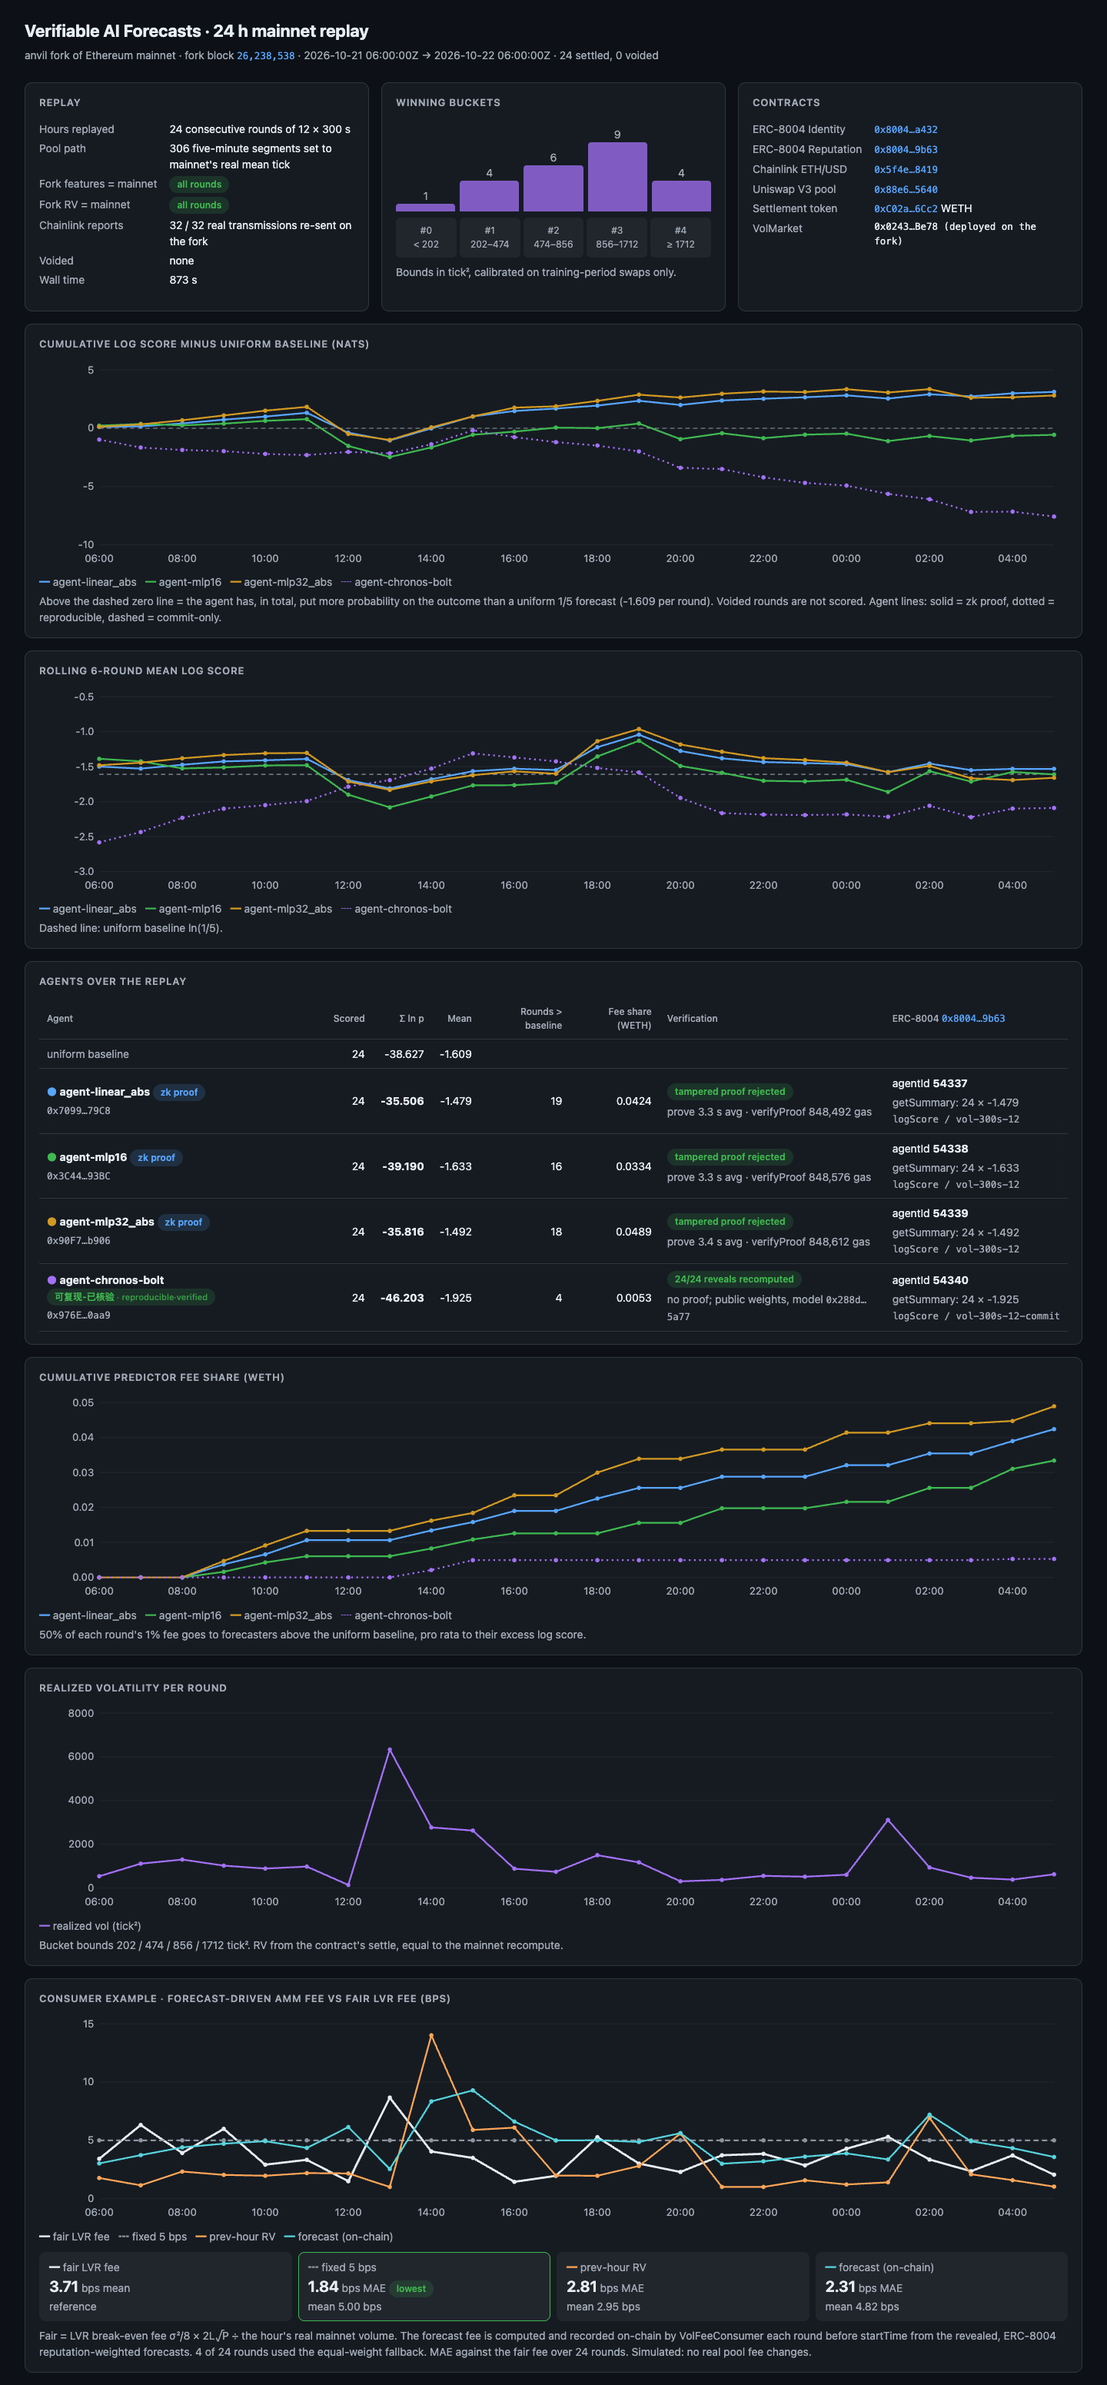
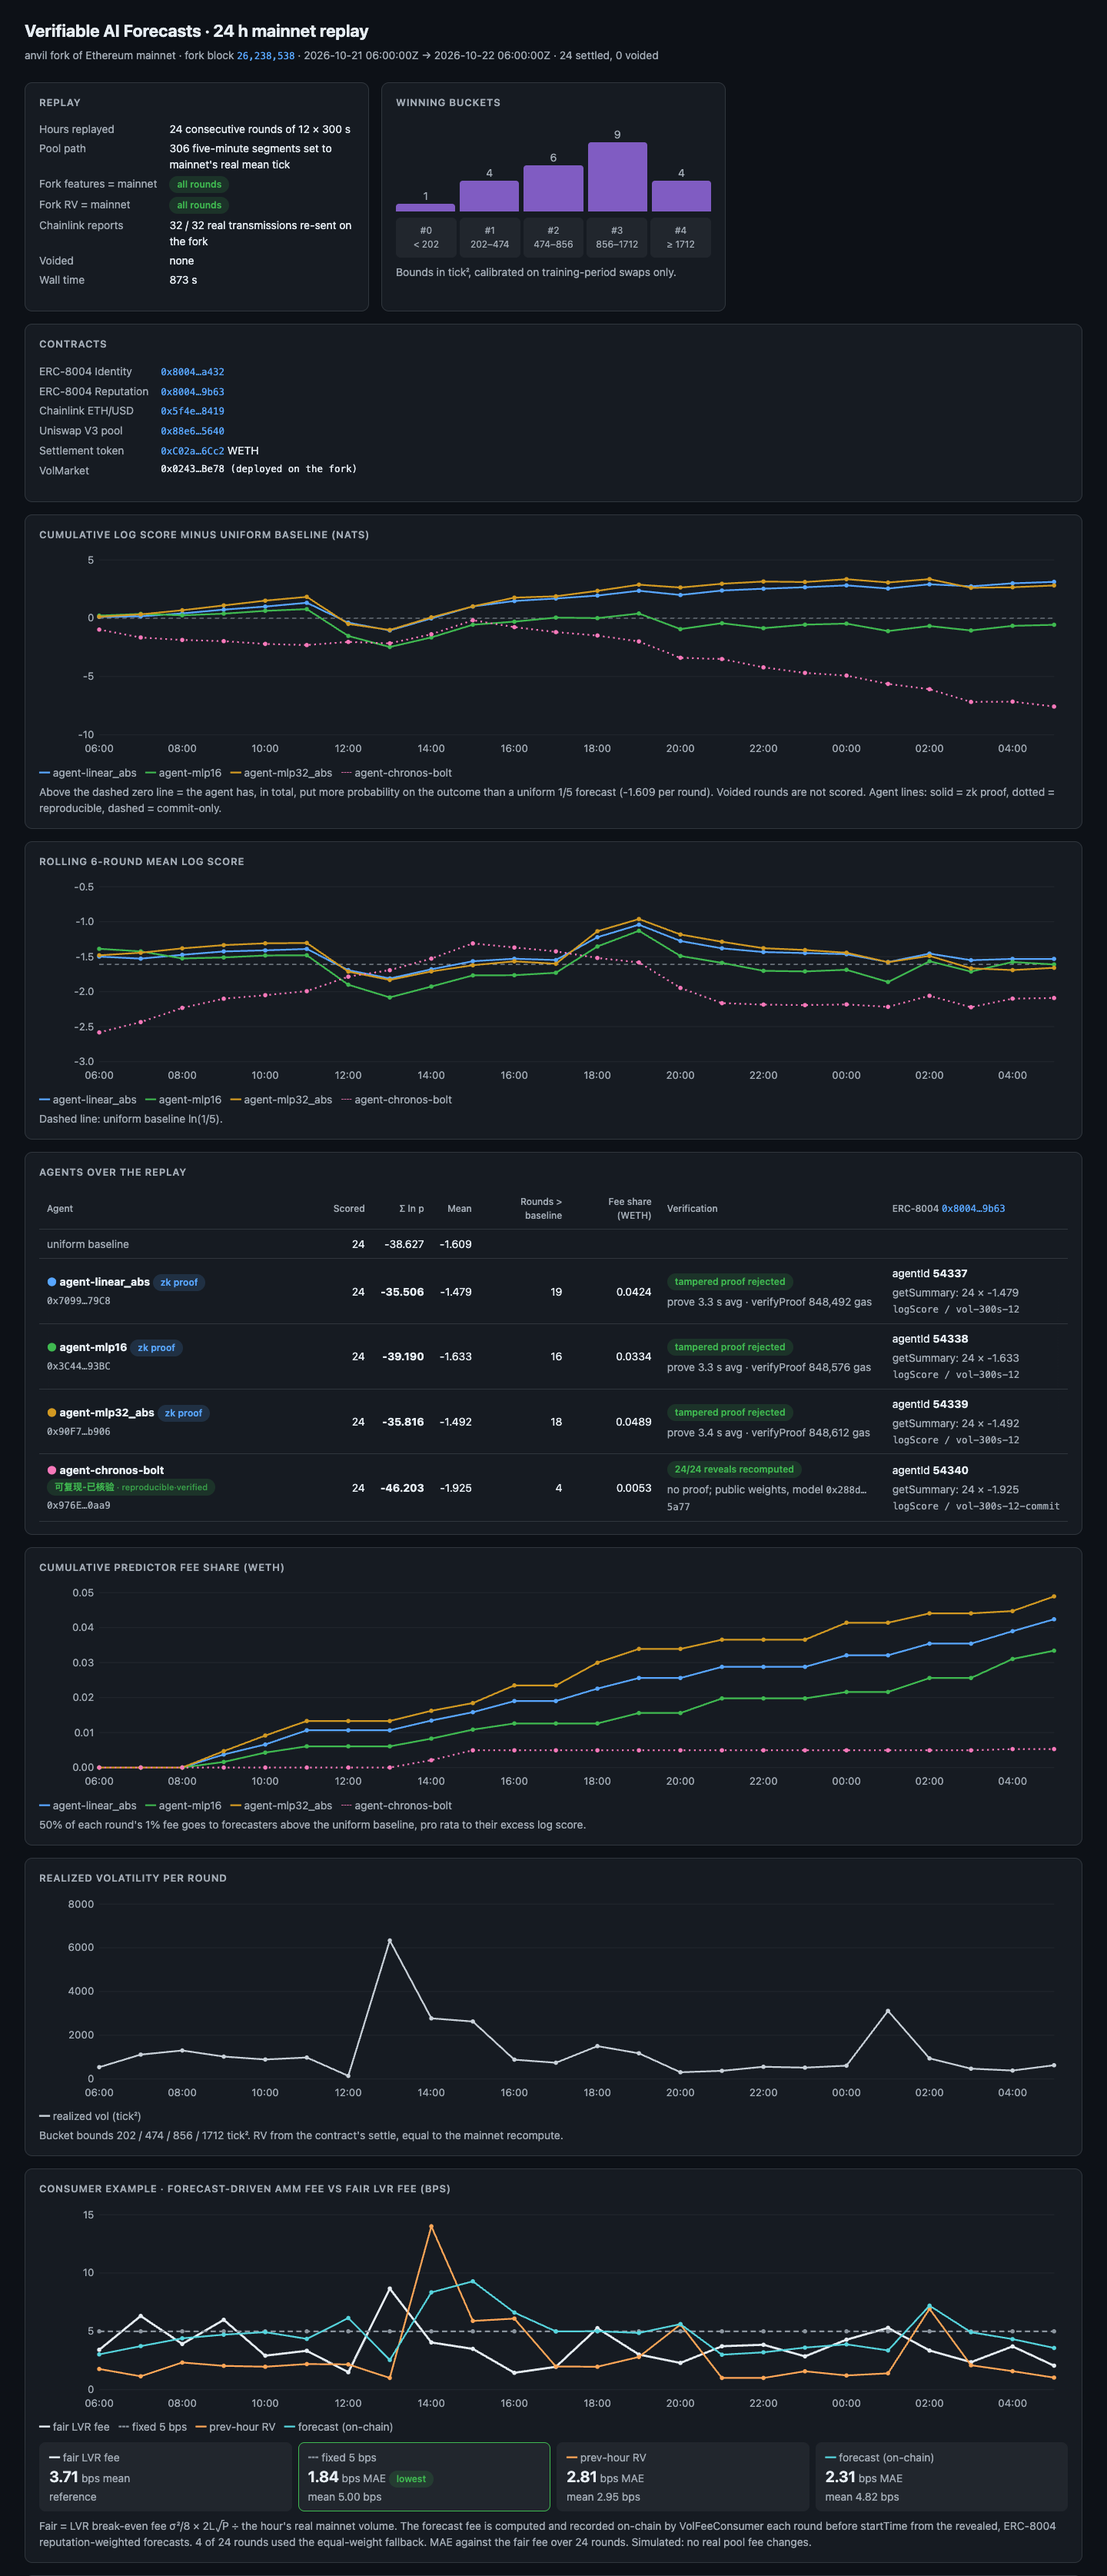
chore: r10 看板观感：配色、网格、图例与单轮获胜桶
Goal: dashboard/index.html：PALETTE 里与 --win 相同的 #a371f7 换成与其余调色板、费率卡系列色和 --win 都可区分、在暗底上可读的颜色，实现波动率线（:370）同样换掉 #a371f7，--win 保持 #a371f7；1280 宽下回放与单轮视图的卡片网格每行铺满（回放的 Contracts 卡、单轮的 Parimutuel bets 与 Contracts 卡设为 wide 或调整顺序）；图例每项（字形加系列名）包一层 white-space: nowrap，375 宽下系列名整体换行；单轮视图每个 .probs 小柱组带 role="img" 与写出五个桶概率百分比并点名结果桶（outcome）的 aria-label，表头用 outcome 一词说明、不用颜色词；布局体系与卡片风格照旧，375 与 1280 宽无横向溢出；更新 docs/img/dashboard.png
Accept: bash tests/acceptance/next_dashboard_polish.sh :: red -> green
Cumulative-Accept: 1 stage(s) green

Roadmap-Stage: R10
Macro-ID: macro-1792757991-3290

diff --git a/dashboard/index.html b/dashboard/index.html
@@ -20,6 +20,8 @@
   .card { background: var(--panel); border: 1px solid var(--line); border-radius: 10px; padding: 16px 18px;
           min-width: 0; overflow-x: auto; }
   .card.wide { grid-column: 1 / -1; }
+  /* 1116px to 1471px is where the 340px main grid has exactly three columns. */
+  @media (min-width: 1116px) and (max-width: 1471px) { .card.span2 { grid-column: span 2; } }
   .card h2 { margin: 0 0 12px; font-size: 13px; text-transform: uppercase; letter-spacing: .06em;
              color: var(--muted); font-weight: 600; }
   .big { font-size: 30px; font-weight: 650; }
@@ -96,7 +98,8 @@ const eth = (wei) => (Number(BigInt(wei) / 10n ** 12n) / 1e6).toFixed(4);
 const SCAN = "https://etherscan.io";
 const blockLink = (n) => `<a class="mono" href="${SCAN}/block/${n}" target="_blank" rel="noopener">${n.toLocaleString()}</a>`;
 const txLink = (h, text) => `<a class="mono" href="${SCAN}/tx/${h}" target="_blank" rel="noopener">${text ?? short(h)}</a>`;
-const PALETTE = ["#58a6ff", "#3fb950", "#d29922", "#a371f7", "#f778ba", "#79c0ff"];
+// Agent colours never reuse --win or the fee-card series colours.
+const PALETTE = ["#58a6ff", "#3fb950", "#d29922", "#f778ba", "#39c5bb", "#79c0ff"];
 const attr = (s) => String(s).replace(/&/g, "&amp;").replace(/"/g, "&quot;").replace(/</g, "&lt;");
 // The hint is shown only up to 1000 px, where a card's content box is under 900 px, so these tables always overflow.
 const scrollTable = (inner, minWidth = 0) => `<div class="table-scroll"><table${minWidth ? ` style="min-width:${minWidth}px"` : ""}>${inner}</table></div>` +
@@ -183,6 +186,7 @@ function render({ data: d, src }) {
     const max = Math.max(...a.probs);
     const bars = a.probs.map((p, i) => `<div class="${i === o.winning_bucket ? "win" : ""}"
       style="height:${Math.max(2, p / max * 40)}px" title="#${i} ${names[i]}: ${(p * 100).toFixed(2)}%"></div>`).join("");
+    const probsLabel = `Bucket probabilities: ${a.probs.map((p, i) => `#${i} ${names[i]} ${(p * 100).toFixed(1)}%`).join(", ")}; outcome #${o.winning_bucket}`;
     const rep = a.reputation, repVal = Number(rep.summary_value) / 10 ** rep.summary_decimals;
     const t = tamper[a.agent];
     const verification = isZk(a)
@@ -195,7 +199,7 @@ function render({ data: d, src }) {
       ? `<td class="num">${eth(a.predictor_reward_wei)}<div class="sub">${a.beat_baseline ? "beat baseline" : "at/below baseline"}</div></td>`
       : `<td class="num">–</td>`;
     return `<tr><td><b class="nowrap">${a.agent}</b> ${typeBadge(a)}<div class="sub mono nowrap">${short(a.address)}</div></td>
-      <td><div class="probs">${bars}</div></td>
+      <td><div class="probs" role="img" aria-label="${attr(probsLabel)}">${bars}</div></td>
       <td class="num">${(a.p_win * 100).toFixed(1)}%</td>
       <td class="num"><b>${a.log_score_float.toFixed(3)}</b></td>
       ${reward}
@@ -204,7 +208,7 @@ function render({ data: d, src }) {
         <br><span class="mono">${rep.tag1} / ${rep.tag2}</span></div></td></tr>`;
   }).join("");
   const agentsCard = card("Agents · forecasts, scores and ERC-8004 reputation", `${scrollTable(`
-    <tr><th>Agent</th><th>Bucket probabilities (purple = outcome)</th><th class="num">p(outcome)</th>
+    <tr><th>Agent</th><th>Bucket probabilities (outcome bucket highlighted)</th><th class="num">p(outcome)</th>
     <th class="num">Log score</th><th class="num">Fee share (WETH)</th><th>Verification</th><th>ERC-8004 reputation ${link(d.contracts.erc8004_reputation)}</th></tr>
     ${rows}`, 960)}
     <div class="sub" style="margin-top:8px">Log score = max(ln p_outcome, −18), computed in VolMarket.settle and written by the
@@ -226,7 +230,7 @@ function render({ data: d, src }) {
       ? `: ${eth(fs.fee_wei)} WETH, of which ${eth(fs.owner_wei)} to the owner and ${eth(fs.predictors_wei)} to forecasters` : d.fee_collected_wei != null
       ? `: ${eth(d.fee_collected_wei)} WETH collected to the owner` : ""}${d.market_balance_after_wei != null
       ? `, ${d.market_balance_after_wei} wei left in the market` : ""}.
-    Bettor 0 followed the agents' consensus.</div>`);
+    Bettor 0 followed the agents' consensus.</div>`, "span2");
 
   const c = d.contracts;
   const contractsCard = card("Contracts", `<dl class="kv">
@@ -285,7 +289,7 @@ function lineChart(series, labels, { zero = null, fmt = null, tip = null, H = 24
     return `<path d="${d}" fill="none" stroke="${s.color}" stroke-width="${s.width ?? 2}" ${s.dash ? `stroke-dasharray="${s.dash}"` : ""}/>${dots}`;
   }).join("");
   const zl = zero != null ? `<line x1="${L}" x2="${W - R}" y1="${y(zero)}" y2="${y(zero)}" stroke="#8b949e" stroke-dasharray="5 4"/>` : "";
-  const legend = series.map((s) => `<span style="color:${s.color}">${!s.dash ? "━" : s.dash === "2 4" ? "┈" : "┅"}</span> ${s.name}`).join(" &nbsp; ");
+  const legend = series.map((s) => `<span class="nowrap"><span style="color:${s.color}">${!s.dash ? "━" : s.dash === "2 4" ? "┈" : "┅"}</span> ${s.name}</span>`).join(" &nbsp; ");
   return `<svg viewBox="0 0 ${W} ${H}" width="100%" role="img" aria-label="${attr(label)}">${grid}${zl}${lines}${xl}</svg><div class="sub">${legend}</div>`;
 }
 
@@ -367,7 +371,7 @@ function renderReplay({ data: d, src }) {
   const rollCard = card(rollTitle, lineChart(roll, labels, { zero: uniform, max: 0, label: chartLabel(rollTitle, roll) }) +
     `<div class="sub">Dashed line: uniform baseline ln(1/5).</div>`, "wide");
 
-  const rvSeries = [{ name: "realized vol (tick²)", color: "#a371f7", values: rounds.map((r) => r.outcome.realized_vol ?? r.real_realized_vol) }];
+  const rvSeries = [{ name: "realized vol (tick²)", color: "#c9d1d9", values: rounds.map((r) => r.outcome.realized_vol ?? r.real_realized_vol) }];
   const rvTitle = "Realized volatility per round";
   const rvCard = card(rvTitle,
     lineChart(rvSeries, labels, { min: 0, tip: (v) => v.toFixed(0), label: chartLabel(rvTitle, rvSeries) }) +
@@ -388,15 +392,15 @@ function renderReplay({ data: d, src }) {
     const best = Math.min(...strategies.map(([k]) => fs.mae_bps[k]));
     const tiles = strategies.map(([k, name, meanKey], i) => {
       const mae = fs.mae_bps[k], win = mae === best;
-      return `<div class="fee-tile${win ? " best" : ""}"><div class="sub"><span style="color:${feeSeries[i + 1].color}">${feeSeries[i + 1].dash ? "┅" : "━"}</span>
-        ${name}</div><div><span class="fee-mae" data-mae="${k}">${mae.toFixed(2)}</span> <span class="sub">bps MAE</span>
+      return `<div class="fee-tile${win ? " best" : ""}"><div class="sub"><span class="nowrap"><span style="color:${feeSeries[i + 1].color}">${feeSeries[i + 1].dash ? "┅" : "━"}</span>
+        ${name}</span></div><div><span class="fee-mae" data-mae="${k}">${mae.toFixed(2)}</span> <span class="sub">bps MAE</span>
         ${win ? `<span class="badge ok">lowest</span>` : ""}</div><div class="sub">mean ${fs.mean_bps[meanKey].toFixed(2)} bps</div></div>`;
     }).join("");
     const fallback = fs.equal_weight_fallback_rounds ? ` ${fs.equal_weight_fallback_rounds} of ${fs.rounds} rounds used the equal-weight fallback.` : "";
     const feeTitle = "Consumer example · forecast-driven AMM fee vs fair LVR fee (bps)";
     feeCard = card(feeTitle,
       lineChart(feeSeries, labels, { min: 0, tip: (v) => v.toFixed(2), label: chartLabel(feeTitle, feeSeries) }) +
-      `<div class="fee-tiles"><div class="fee-tile"><div class="sub"><span style="color:#e6edf3">━</span> fair LVR fee</div>
+      `<div class="fee-tiles"><div class="fee-tile"><div class="sub"><span class="nowrap"><span style="color:#e6edf3">━</span> fair LVR fee</span></div>
         <div><span class="fee-mae">${fs.mean_bps.fair.toFixed(2)}</span> <span class="sub">bps mean</span></div>
         <div class="sub">reference</div></div>${tiles}</div>
       <div class="sub" style="margin-top:8px">Fair = LVR break-even fee σ²/8 × 2L√P ÷ the hour's real mainnet volume.
@@ -474,7 +478,7 @@ function renderReplay({ data: d, src }) {
     <dt>Chainlink ETH/USD</dt><dd>${link(c.chainlink_feed)}</dd>
     <dt>Uniswap V3 pool</dt><dd>${link(c.pool)}</dd>
     <dt>Settlement token</dt><dd>${link(c.settlement_token)} WETH</dd>
-    <dt>VolMarket</dt><dd class="mono">${short(c.market)} (deployed on the fork)</dd></dl>`);
+    <dt>VolMarket</dt><dd class="mono">${short(c.market)} (deployed on the fork)</dd></dl>`, "wide");
 
   const app = document.getElementById("app");
   app.style.gridTemplateColumns = "repeat(auto-fit, minmax(min(400px, 100%), 1fr))";

diff --git a/docs/plans/路线图.md b/docs/plans/路线图.md
@@ -27,6 +27,7 @@ Accept_Probe: tests/acceptance/next_dashboard_polish.sh
 
 ## 未纳入
 - L1 VER-47 上一轮 task 2 与已勾选 task 1 写域相同 — 流程账本标红，两任务已提交 00aa7f3 并经 Full Verify，没有产品工作
+- L3 VolMarket.sol:248 注释称 modelHash 覆盖 inputs — 随 R11 被 PLN-24 推断复核移出本轮，探针 tests/acceptance/next_arch_opml.sh 已备好留待后续
 - L4 REV-07 review_d5.md 缺 Occam 一节 — 上一轮审查报告格式标红，d5 结论已裁决并提交，没有产品工作
 - 显式 ?data= 失败时报错不回退（E57） — macro-1792687243-35751 曾否决（文档只传存在的文件、页脚显示来源），本轮没有新证据
 - 375 下轮次表行高与表头吸顶、Chainlink 卡滚动提示、费率卡图例逻辑重复（E58 其余部分、L2） — 本轮只修图例断行与网格，表格交互留后续
